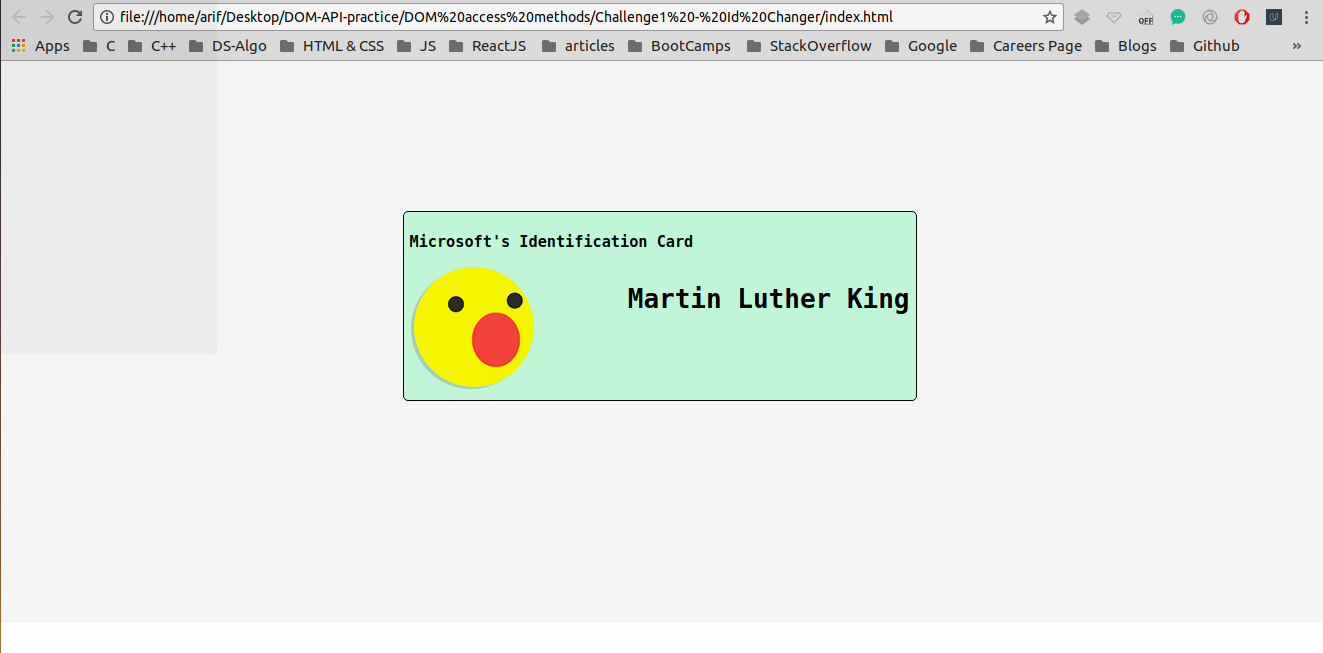
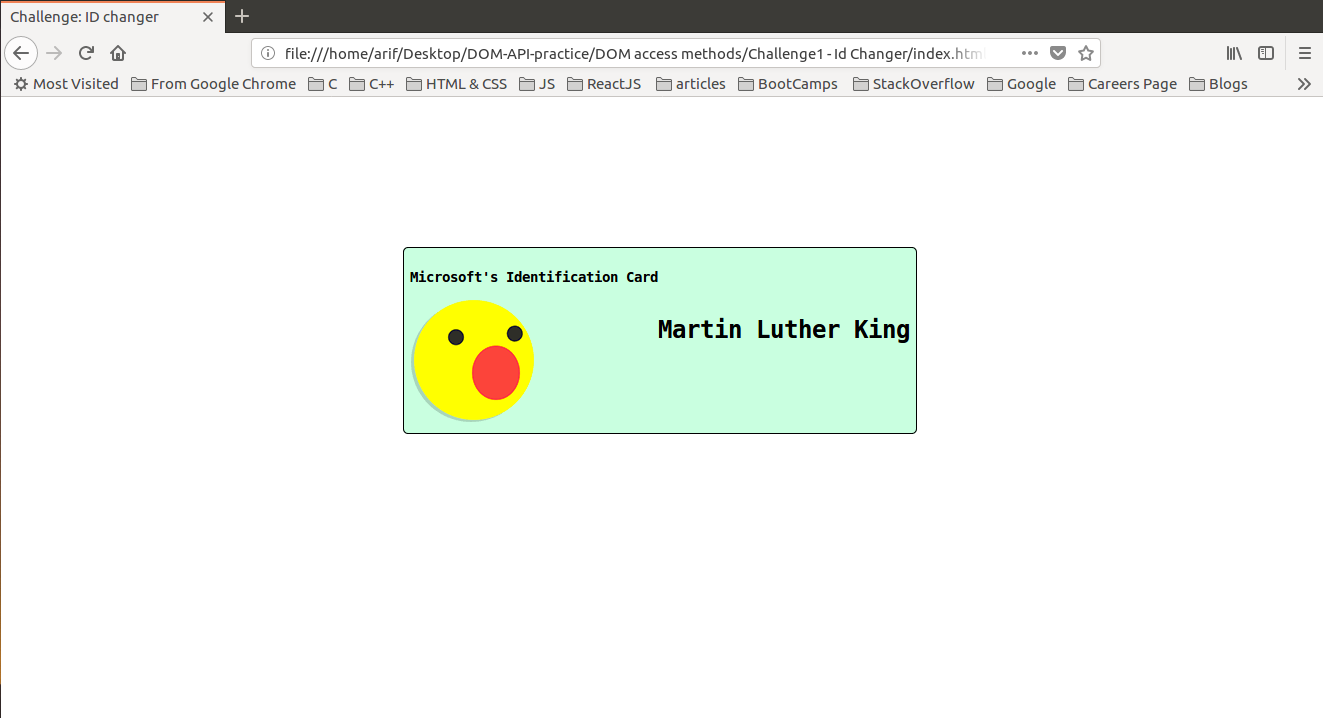
Fidning Elements by ID - Done

diff --git a/DOM access methods/Finding Elements by ID/index.html b/DOM access methods/Finding Elements by ID/index.html
@@ -1,0 +1,30 @@
+<!DOCTYPE html>
+<html>
+
+<head>
+    <meta charset="utf-8">
+    <title>Finding elements by ID</title>
+    <link rel="stylesheet" href="style.css">
+</head>
+
+<body>
+    <div class="container">
+        <h1 id="heading"> All about dogs </h1>
+        <p>
+            The domestic
+            <span class="animal">dog</span> is known as man's best friend. The
+            <span class="animal">dog</span> was the first domesticated animal and has been widely kept as a working, hunting, and pet companion. According
+            to recent coarse estimates, there are currently between 700 million and one billion
+            <span class="animal">dog</span>s, making them the most abundant predators in the world.
+            <a href="http://en.wikipedia.org/wiki/Dog">Read more on Wikipedia</a>.
+        </p>
+
+        <img src="https://www.kasandbox.org/programming-images/animals/dog_sleeping-puppy.png" height="150" alt="Sleeping puppy">
+        <img src="https://www.kasandbox.org/programming-images/animals/dogs_collies.png" height="150" alt="Dogs running">
+    </div>
+
+    <!-- loading Script to manipulate the DOM-->
+    <script src="app.js"></script>
+</body>
+
+</html>

diff --git a/DOM access methods/Challenge1 - Id Changer/index.html b/DOM access methods/Challenge1 - Id Changer/index.html
@@ -5,25 +5,7 @@
     <meta charset="utf-8">
     <title>Challenge: ID changer</title>
     <!-- CSS -->
-    <style>
-        .container {
-            width: 520px;
-            margin: 150px auto;
-        }
-
-        #id-card {
-            border: 1px solid black;
-            border-radius: 5px;
-            width: 500px;
-            font-family: monospace;
-            padding: 6px;
-            background: rgb(201, 255, 224);
-        }
-
-        #id-name {
-            float: right;
-        }
-    </style>
+    <link rel="stylesheet" href="styles.css">
 </head>
 
 <body>
@@ -36,7 +18,7 @@
         </div>
     </div>
 
-    <script src="app.js"></script>
+    <!-- <script src="app.js"></script> -->
 </body>
 
 </html>

diff --git a/DOM access methods/Finding Elements by ID/style.css b/DOM access methods/Finding Elements by ID/style.css
@@ -1,0 +1,17 @@
+body{
+    background-color: #e7e7e7;
+    font-family: 'Franklin Gothic Medium', 'Arial Narrow', Arial, sans-serif;
+}
+
+.container {
+    text-align: center;
+    width: 500px;
+    margin: 80px auto;
+    border: 1px solid palevioletred;
+    padding: 25px;
+}
+
+.container p {
+    font-family: 'Gill Sans', 'Gill Sans MT', Calibri, 'Trebuchet MS', sans-serif;
+    font-size: 18px;
+}

diff --git a/DOM access methods/Challenge1 - Id Changer/styles.css b/DOM access methods/Challenge1 - Id Changer/styles.css
@@ -1,0 +1,17 @@
+.container {
+    width: 520px;
+    margin: 150px auto;
+}
+
+#id-card {
+    border: 1px solid black;
+    border-radius: 5px;
+    width: 500px;
+    font-family: monospace;
+    padding: 6px;
+    background: rgb(201, 255, 224);
+}
+
+#id-name {
+    float: right;
+}

diff --git a/DOM access methods/Finding Elements by ID/app.js b/DOM access methods/Finding Elements by ID/app.js
@@ -1,0 +1,7 @@
+// heading Element
+var headingEl = document.getElementById("heading");
+// console.log(headingEl);  // for debugging purpose
+headingEl.innerHTML = "All About Cats";
+
+// changing the attributes
+var linkEl = document.getElementById();

diff --git a/DOM access methods/Finding Elements by ID/README.md b/DOM access methods/Finding Elements by ID/README.md
@@ -1,0 +1,41 @@
+## Adding JavaScript to a Wesbsite 
+
+I have been trying to manipulate DOM using plane JavaScript through out this project <br />
+
+## Concepts Learnt:
+
+* Learnt that CSS should be placed inside  < head> tag to avoid FOUC - Flash of Unstyled Content
+* Learnt that JScript should be placed just above closing  < body> tag 
+  * This is to makesure that JS is applied to HTML and CSS after loading the later two 
+  * If violated, the JS will not be applied to the targeted tags, ids, or classes
+* innerHtml - you'll be able to change your text and HTML as you may like
+
+```
+  document.body.innerHTML = "some text";
+  // here we are manipulating the innerHTML of body
+  // look at second image below
+```
+
+* innerHTML is a DOM property to insert content or HTML to a specified id of an element
+  * Basically this is DOM manupulation
+
+Below are two pictures before and after adding JavaScript to our WebPage
+
+
+### Before Adding JS
+
+<p align="center">
+  <img src="img/before_JS_Loads.png" alt="Size Limit example" >
+</p>
+
+#### TIP : Here Java Script is manipulating the DOM
+
+
+### After Adding JS
+
+<p align="center">
+  <img src="img/after_JS_Loads.png" alt="Size Limit example" >
+</p> 
+
+
+#### In the second image the DOM has been manipulated
